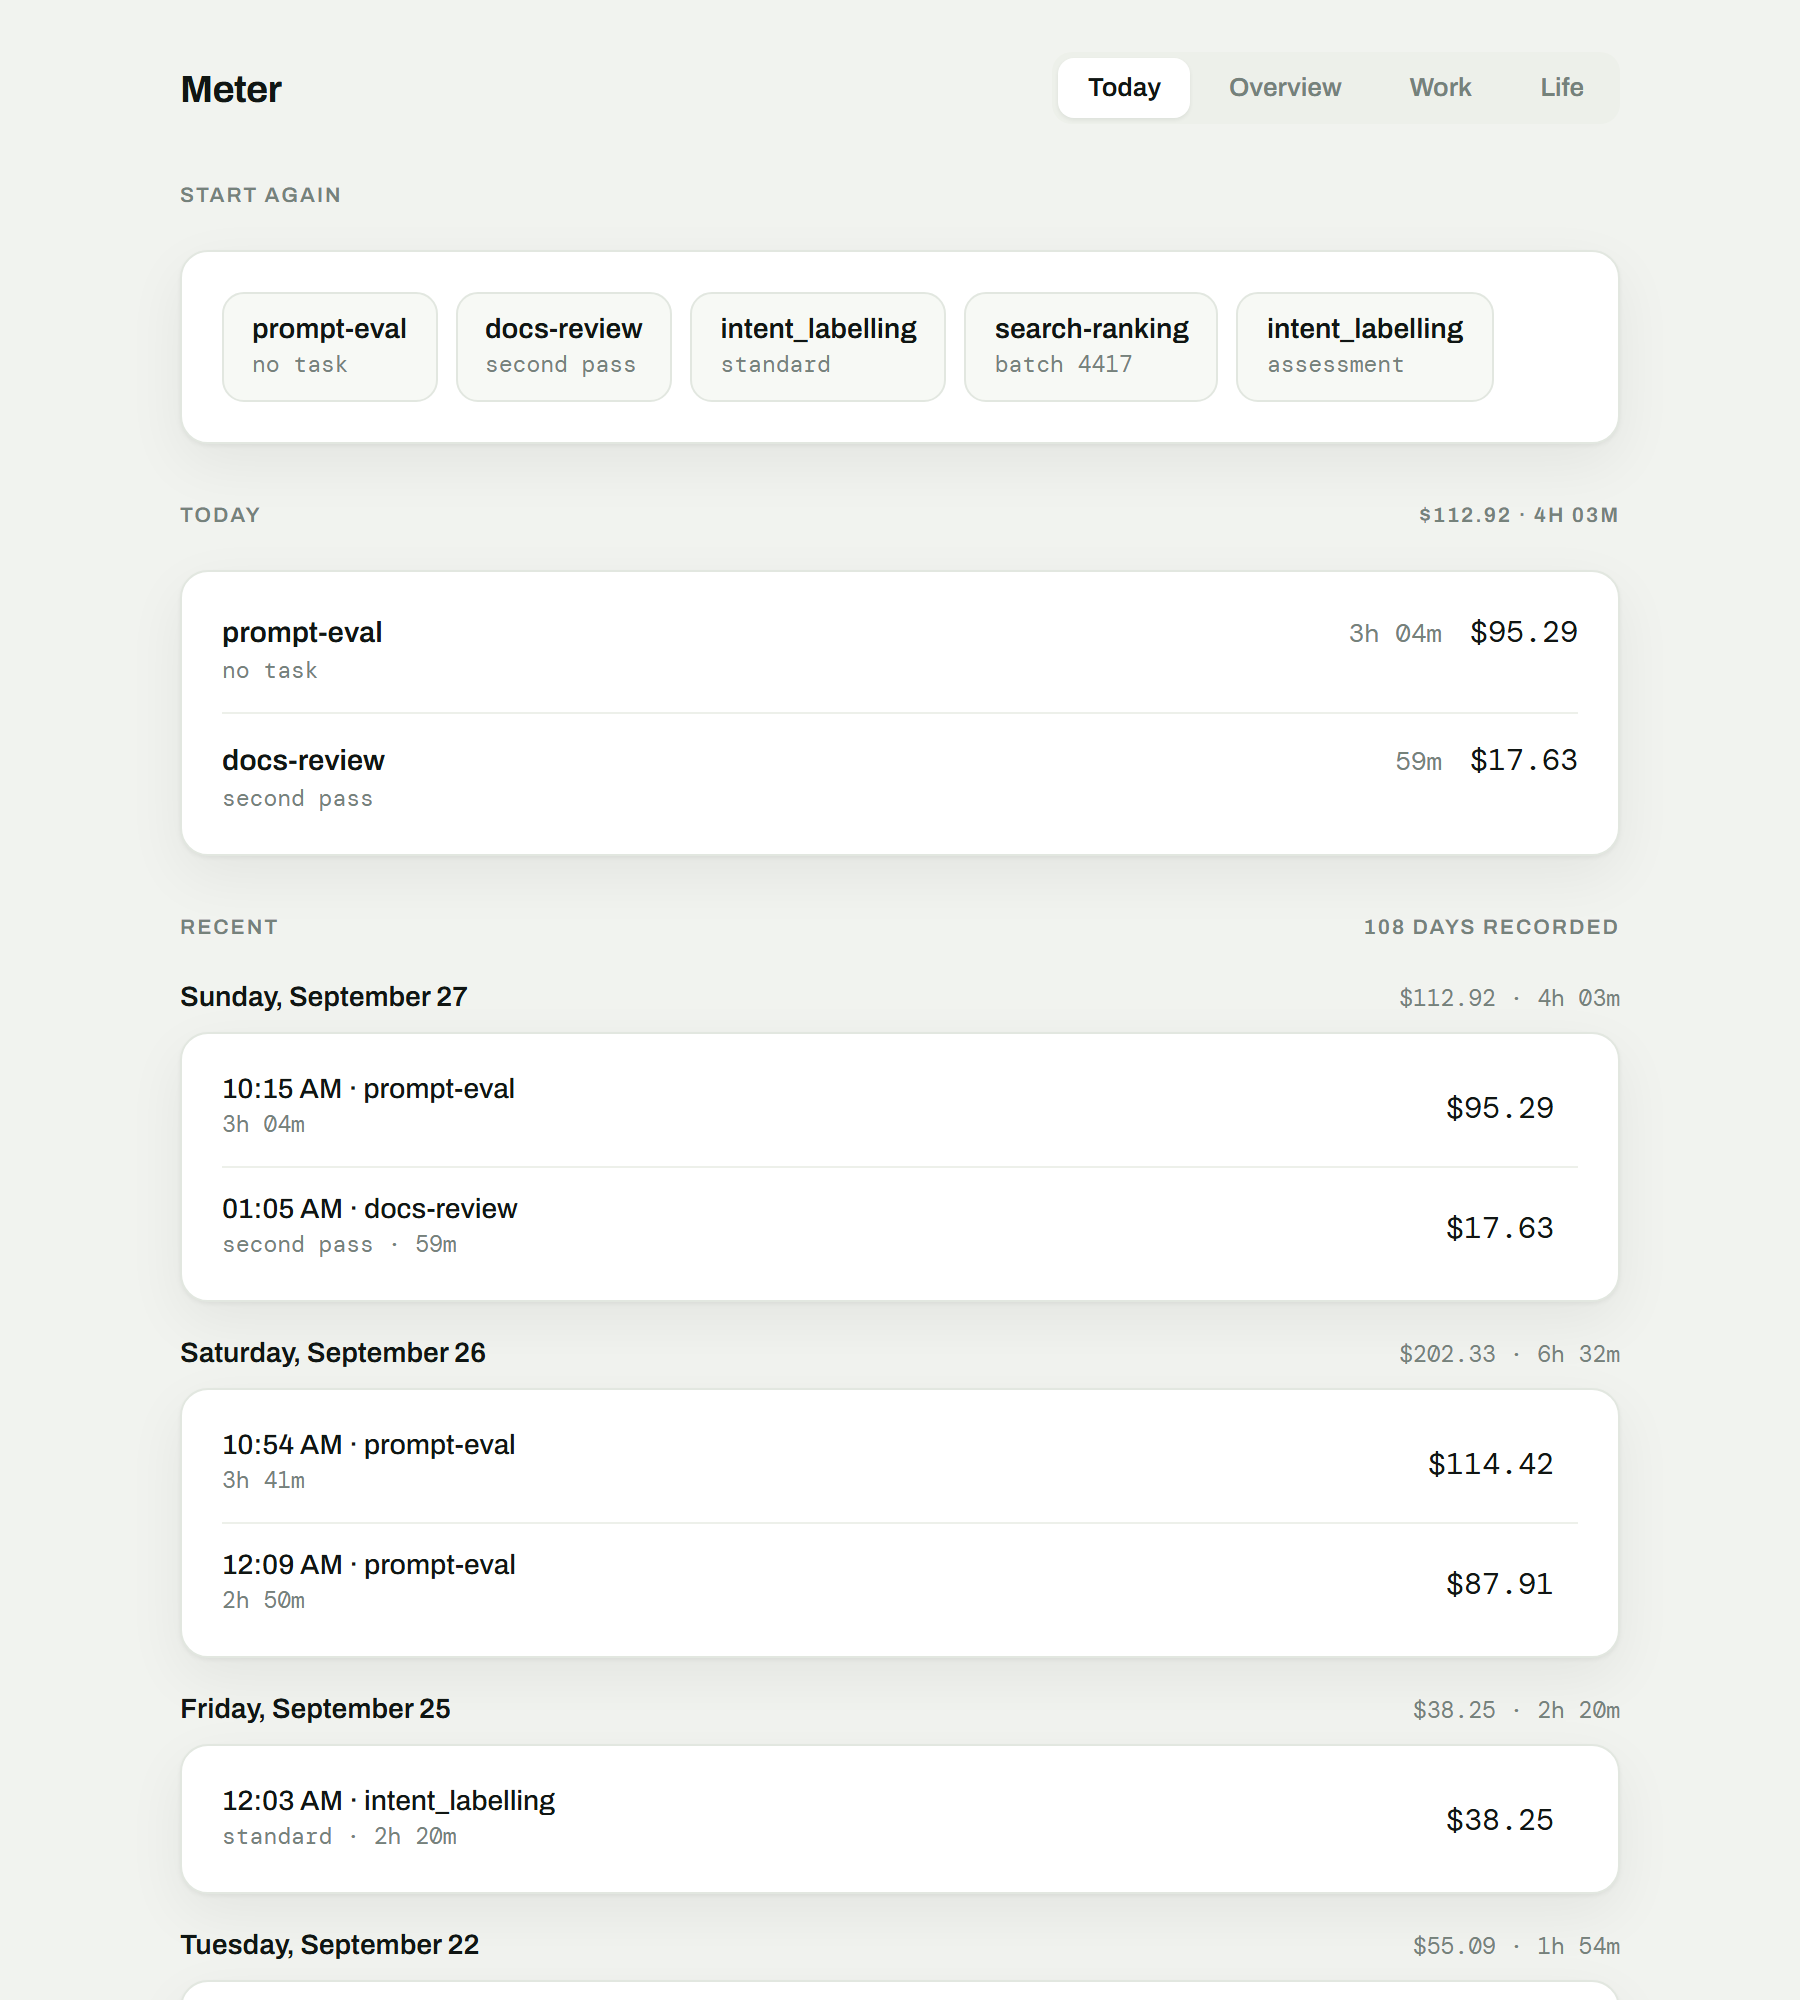
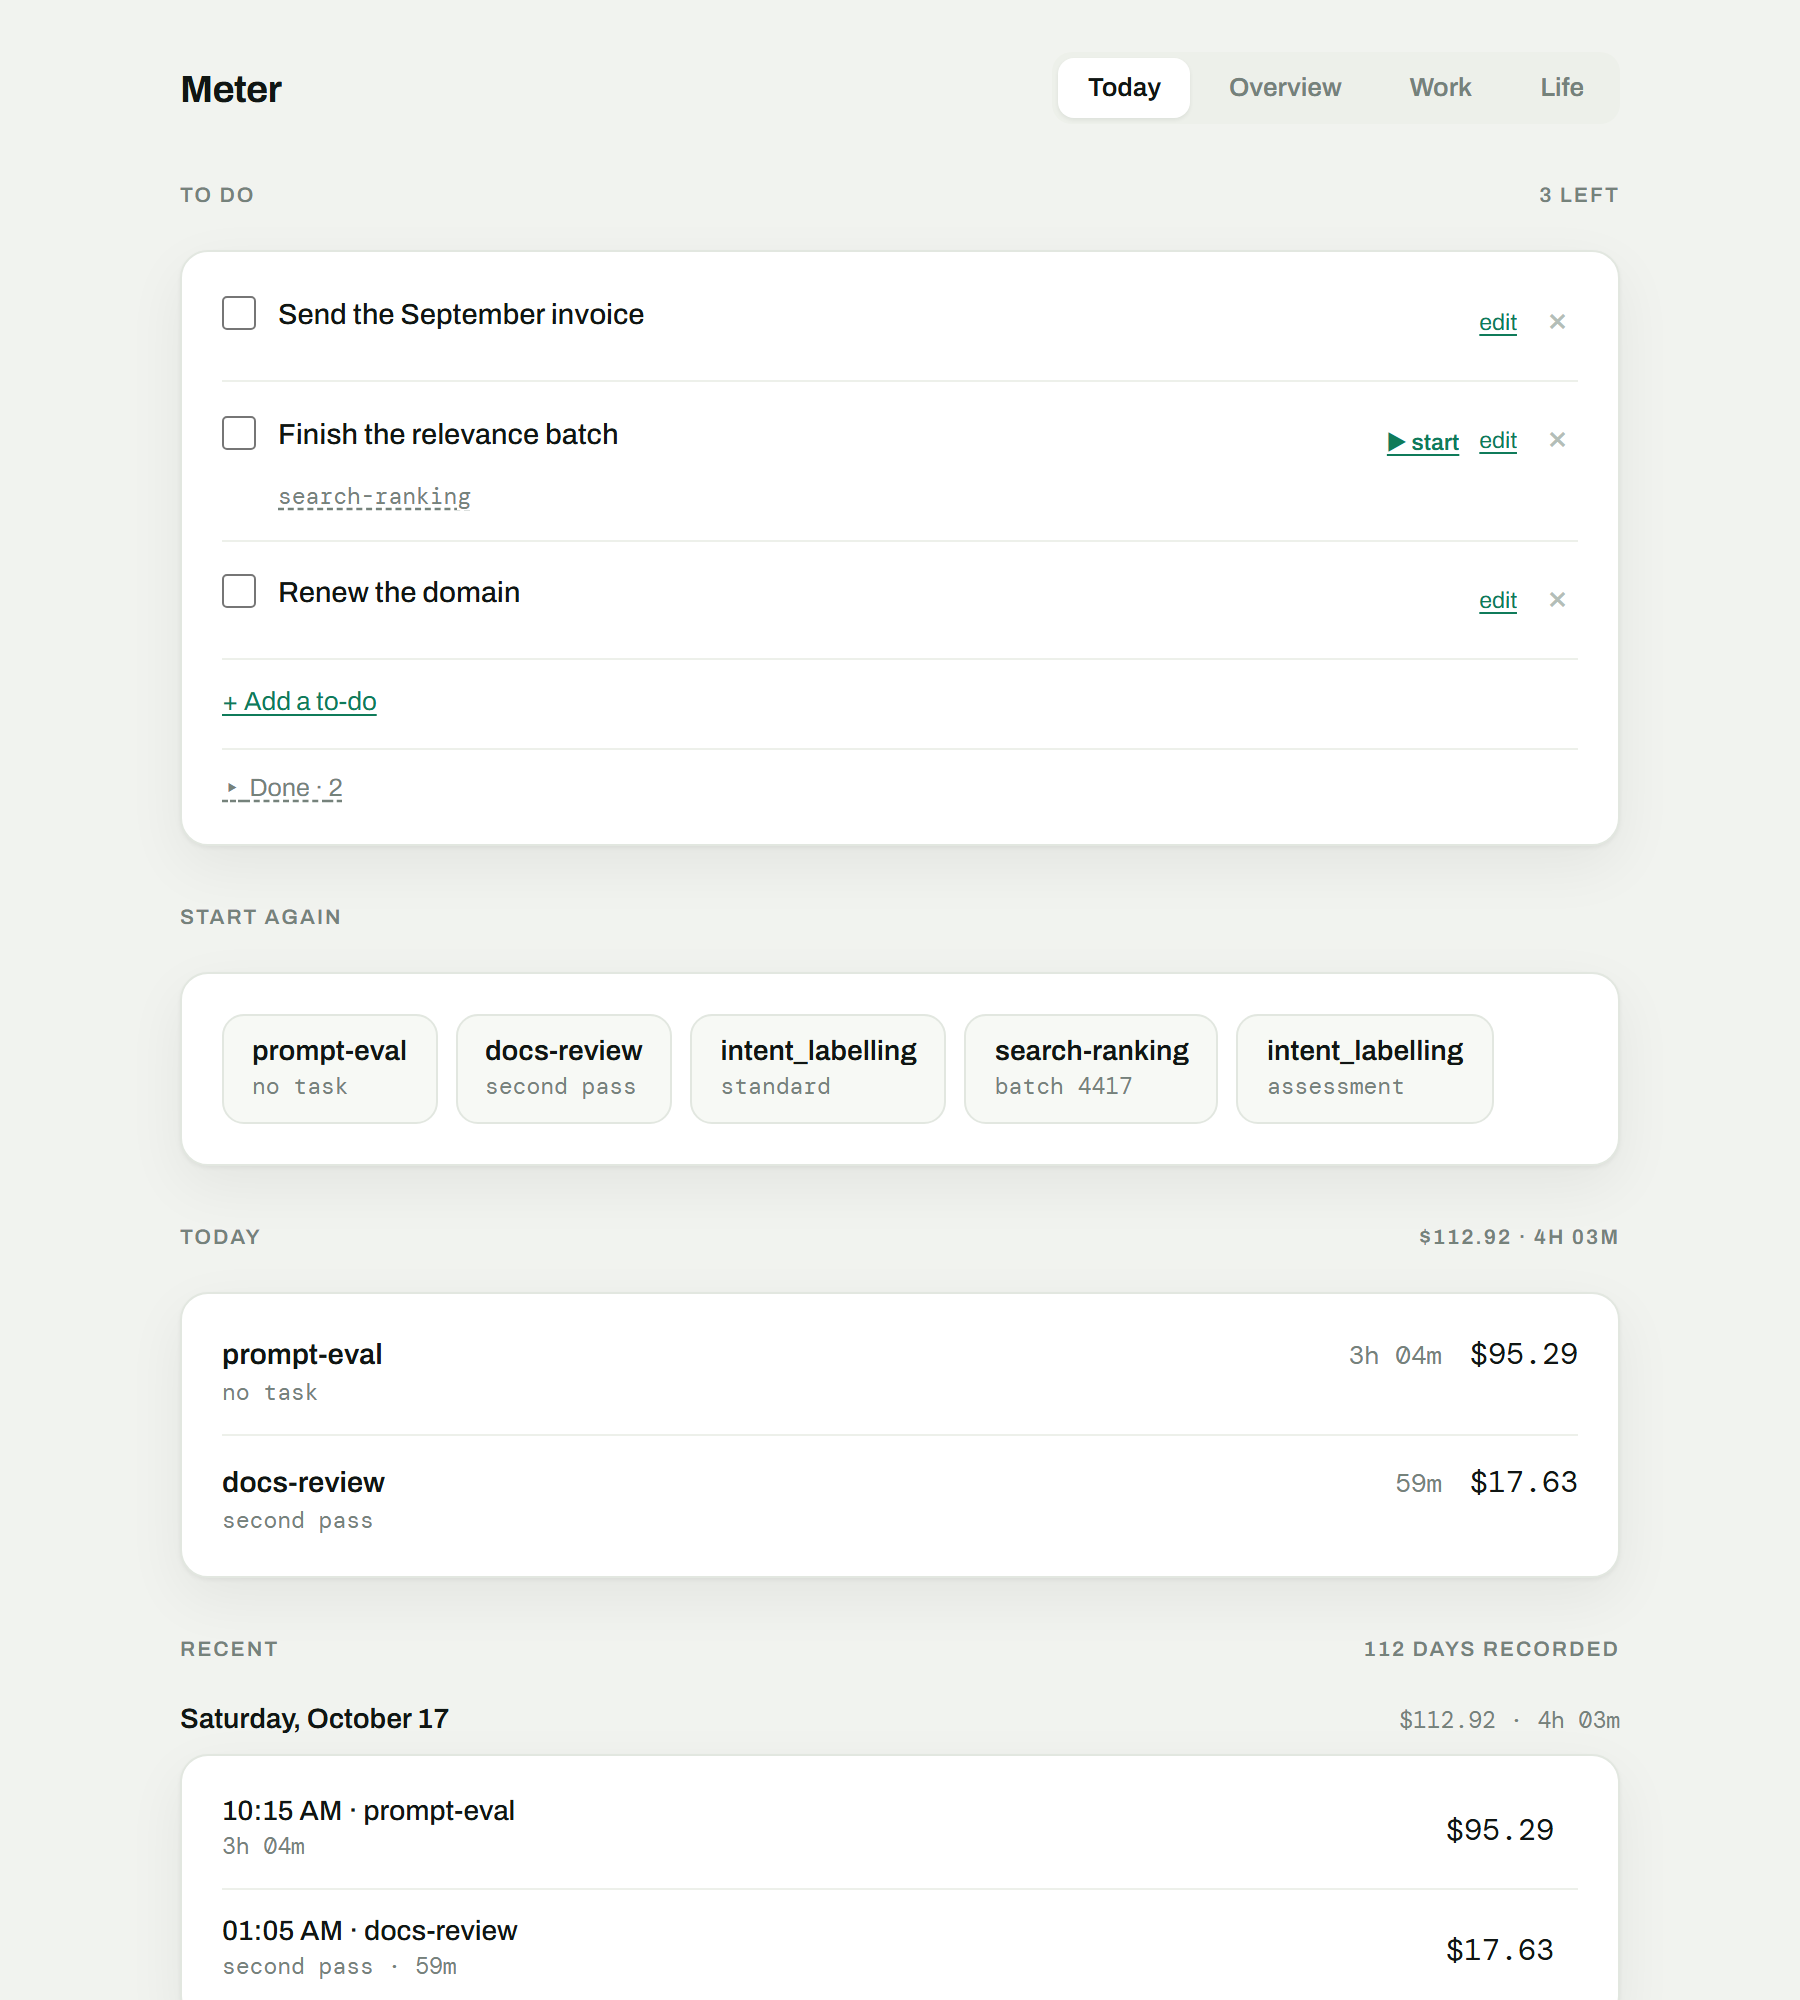
Retake the README's screenshots with the to-do list in them
The Today shot was taken before the to-do list existed, and the Overview
shots before a comparison could wrap inside its tile, so both showed a
screen the app no longer draws.

The demo seed gains five invented to-dos, three open and two done, one of
them naming a project so the shot shows its start button. They are dated
before the seed's last moment, so sliding the seed onto today moves
nothing else. `npm run shots` retook every image, and the Today image's
description now says what is on it.

diff --git a/README.md b/README.md
@@ -15,7 +15,7 @@ Drive, not to anyone else's machine.
 
 ![A session running: the elapsed time and the money both climbing in real time, in the meter face and in the bar that sits above every screen](docs/images/running.gif)
 
-![The screen it opens on: what today has come to per project, one-click restarts of the last few things you ran, and every day there was work](docs/images/today.png)
+![The screen it opens on: a to-do list, one with a start button for its project's meter, then one-click restarts of the last few things you ran, what today has come to per project, and every day there was work](docs/images/today.png)
 
 | Every project at once | A month, across all of them |
 | --- | --- |
